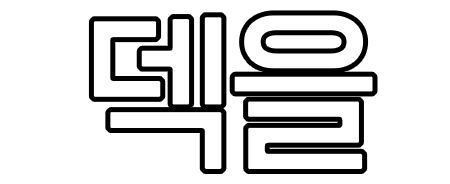
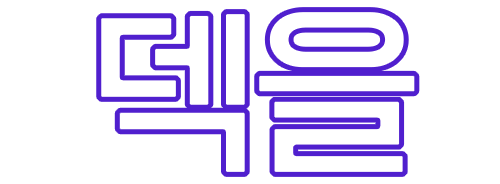
CSS: Home text

Changed region(s): [[0.1867, 0.0272, 0.84, 0.9783]]

diff --git a/src/components/home/main_home.module.css b/src/components/home/main_home.module.css
@@ -32,10 +32,13 @@
   justify-content: space-between;
   padding: 0 5rem;
   font-family: var(--header-font-family);
+  border-bottom: 1px solid black;
+  background-color: black;
 }
 
 .header_title {
   font-size: 2rem;
+  color: white;
 }
 
 .login_button {
@@ -44,6 +47,7 @@
   height: 2rem;
   width: 4rem;
   text-align: center;
+  color: white;
   border: none;
   background: transparent;
   font-family: var(--header-font-family);
@@ -54,6 +58,7 @@
   width: 100%;
   height: 90%;
   position: relative;
+  border-bottom: 1px solid black;
 }
 
 .home_container > svg {
@@ -154,8 +159,26 @@
 .home_text2 {
   display: flex;
   position: absolute;
-  top: 7rem;
+  top: 10rem;
   right: 15rem;
+  animation: text-sliding-left 1s linear 1;
+  z-index: 200;
+}
+
+.home_text3 {
+  display: flex;
+  position: absolute;
+  bottom: 18rem;
+  left: 5rem;
+  animation: text-sliding-right 1s linear 1;
+  z-index: 200;
+}
+
+.home_text4 {
+  display: flex;
+  position: absolute;
+  bottom: 5rem;
+  right: 5rem;
   animation: text-sliding-left 1s linear 1;
   z-index: 200;
 }

diff --git a/src/components/home/main_home.jsx b/src/components/home/main_home.jsx
@@ -5,6 +5,8 @@ import mainImg2 from "../../image/home_img_2.png";
 import mainImg3 from "../../image/home_img_3.png";
 import textImg1 from "../../image/home_text_1.png";
 import textImg2 from "../../image/home_text_2.png";
+import textImg3 from "../../image/home_text_3.png";
+import textImg4 from "../../image/home_text_4.png";
 
 const MainHome = (props) => {
   return (
@@ -66,6 +68,8 @@ a 300,300 0 1,0 -600,0
         </svg>
         <img src={textImg1} alt="나만의" className={styles.home_text1} />
         <img src={textImg2} alt="덱을" className={styles.home_text2} />
+        <img src={textImg3} alt="나만의" className={styles.home_text3} />
+        <img src={textImg4} alt="계정에서" className={styles.home_text4} />
       </div>
     </div>
   );
